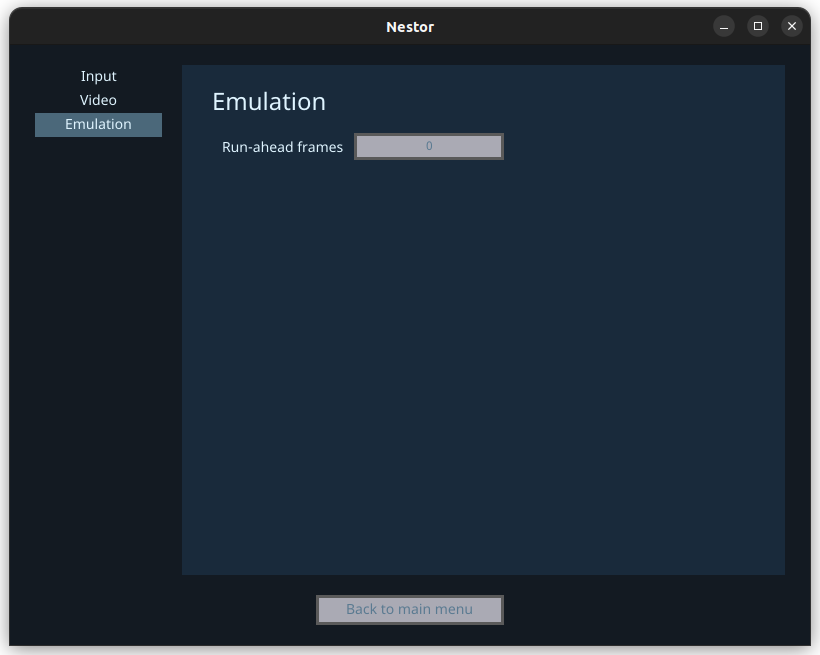
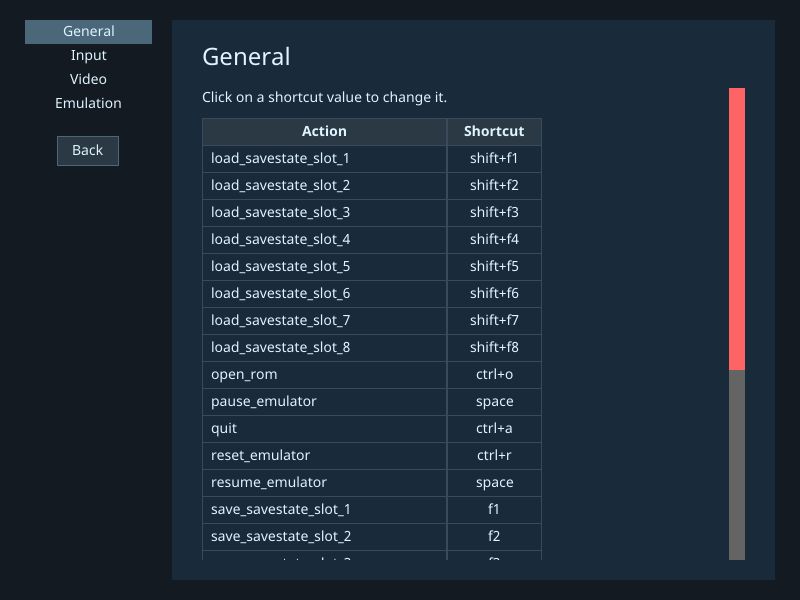
Update README and command-line help

diff --git a/main.go b/main.go
@@ -49,7 +49,7 @@ Options:
     -ramfile    FILE        read 'save ram' from file [WIP/TODO].
     -cpuprofile FILE        write cpu profile to FILE.
     -monitor    HOST:PORT   expose Go runtime real-time on HOST:PORT
-	-stop-after DUR         run the given rom and stops execution after the
+    -stop-after DUR         run the given rom and stops execution after the
 	                        given duration string (ex: 1s, 500ms, 1m, etc.).
                             Only works in 'run' mode.
 `

diff --git a/README.md b/README.md
@@ -108,7 +108,7 @@ $ ./nestor
 Run `nestor -help` for more options.
 
 
-## UI Screenshots
+## User Interface
 
 | ![rom selection](./doc/images/romlist.png) | 
 |:--:| 
